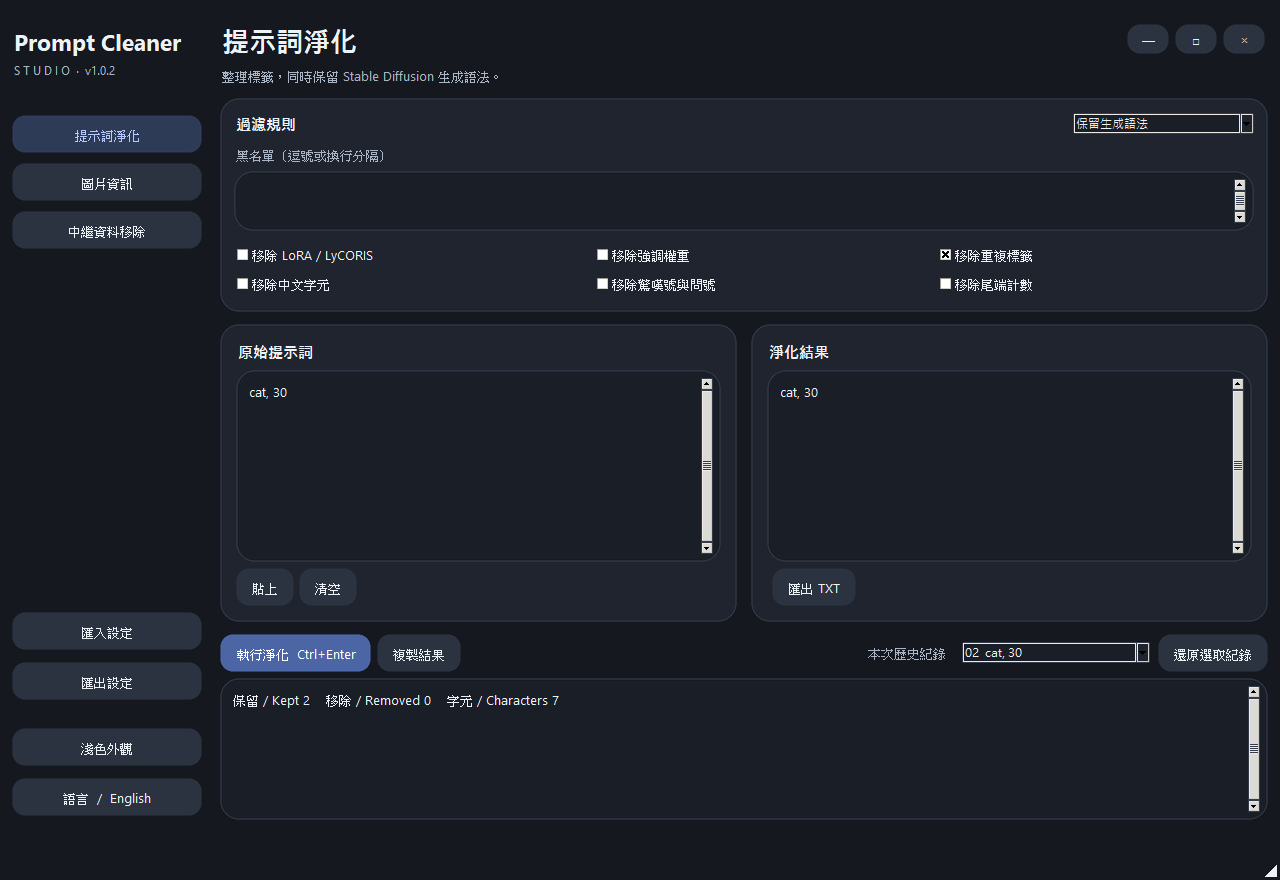
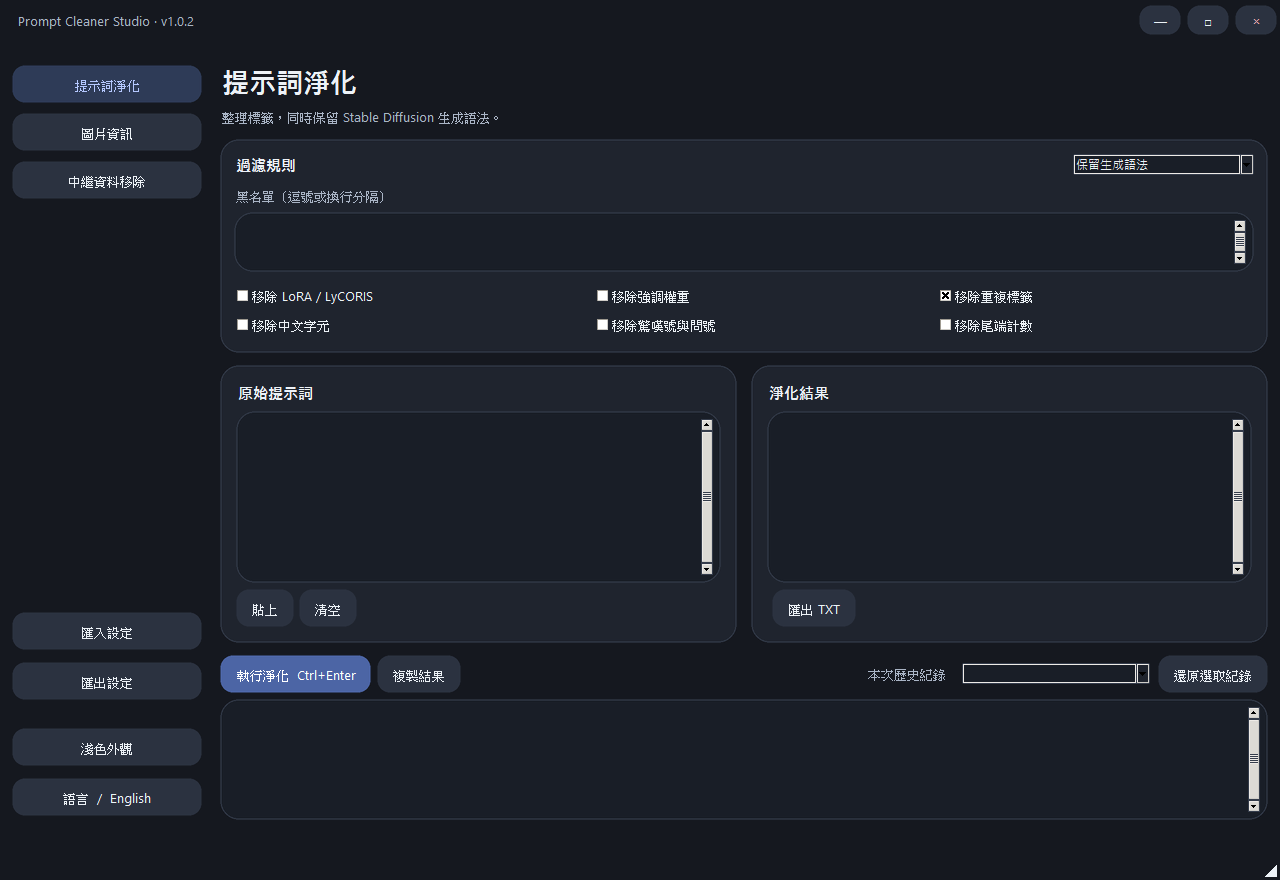
Restore draggable header and refine sidebar navigation

diff --git a/app.py b/app.py
@@ -86,12 +86,10 @@ class App:
         self.sidebar = ttk.Frame(self.shell, width=190)
         self.sidebar.pack(side='left', fill='y', padx=(0, 18))
         self.sidebar.pack_propagate(False)
-        ttk.Label(self.sidebar, text='Prompt Cleaner', font=('Segoe UI', 17, 'bold')).pack(anchor='w', pady=(24, 2))
-        ttk.Label(self.sidebar, text='S T U D I O  ·  v1.0.2', style='Muted.TLabel', font=('Segoe UI', 9)).pack(anchor='w', pady=(0, 30))
         self.nav = []
         for index, key in enumerate(('clean_page', 'image_page', 'batch_page')):
             self.nav.append(self.button(self.sidebar, key, lambda i=index: self.switch(i)))
-            self.nav[-1].pack(fill='x', pady=5)
+            self.nav[-1].pack(fill='x', pady=(24, 5) if index == 0 else 5)
         self.lang_button = RoundedButton(self.sidebar, command=self.change_language)
         self.lang_button.pack(side='bottom', fill='x', pady=(6, 10))
         self.theme_button = RoundedButton(self.sidebar, command=self.change_theme)
@@ -111,7 +109,6 @@ class App:
         self.nav[0].configure(style='Accent.TButton')
         theme.apply(root, self.config['theme'])
         self.status.configure(text=self.t('ready'))
-        self.chrome.bar.lift()
         self.poll_id = root.after(100, self.poll)
         root.after_idle(self.show_main_window)
 
@@ -154,9 +151,6 @@ class App:
     def heading(self, page: ttk.Frame, key: str, hint: str) -> None:
         title = self.label(page, key, style='Title.TLabel')
         title.pack(anchor='w', pady=(20, 4))
-        title.bind('<ButtonPress-1>', self.chrome.start_drag)
-        title.bind('<B1-Motion>', self.chrome.drag)
-        title.bind('<Double-Button-1>', lambda e: self.chrome.toggle_maximize())
         self.label(page, hint, style='Muted.TLabel', wraplength=790).pack(anchor='w', pady=(0, 12))
 
     def build_clean(self) -> None:

diff --git a/window_chrome.py b/window_chrome.py
@@ -28,11 +28,13 @@ class WindowChrome:
         root.geometry(f'{width}x{height}+{max(left, left+(right-left-width)//2)}+{max(top, top+(bottom-top-height)//2)}')
         root.overrideredirect(True)
         self.bar = ttk.Frame(root)
-        self.bar.place(relx=1, x=-12, y=24, anchor='ne')
+        self.bar.pack(fill='x')
+        self.title = ttk.Label(self.bar, text=' Prompt Cleaner Studio · v1.0.2', style='Muted.TLabel', padding=(12, 10))
+        self.title.pack(side='left', fill='x', expand=True)
         for text, command in [('—', self.minimize), ('□', self.toggle_maximize), ('×', close)]:
             RoundedButton(self.bar, text=text, width=42, height=30, command=command,
-                          variant='danger' if text == '×' else 'normal').pack(side='left', padx=3)
-        for w in (self.bar,):
+                          variant='danger' if text == '×' else 'normal').pack(side='left', padx=3, pady=5)
+        for w in (self.bar, self.title):
             w.bind('<ButtonPress-1>', self.start_drag)
             w.bind('<B1-Motion>', self.drag)
             w.bind('<Double-Button-1>', lambda e: self.toggle_maximize())
